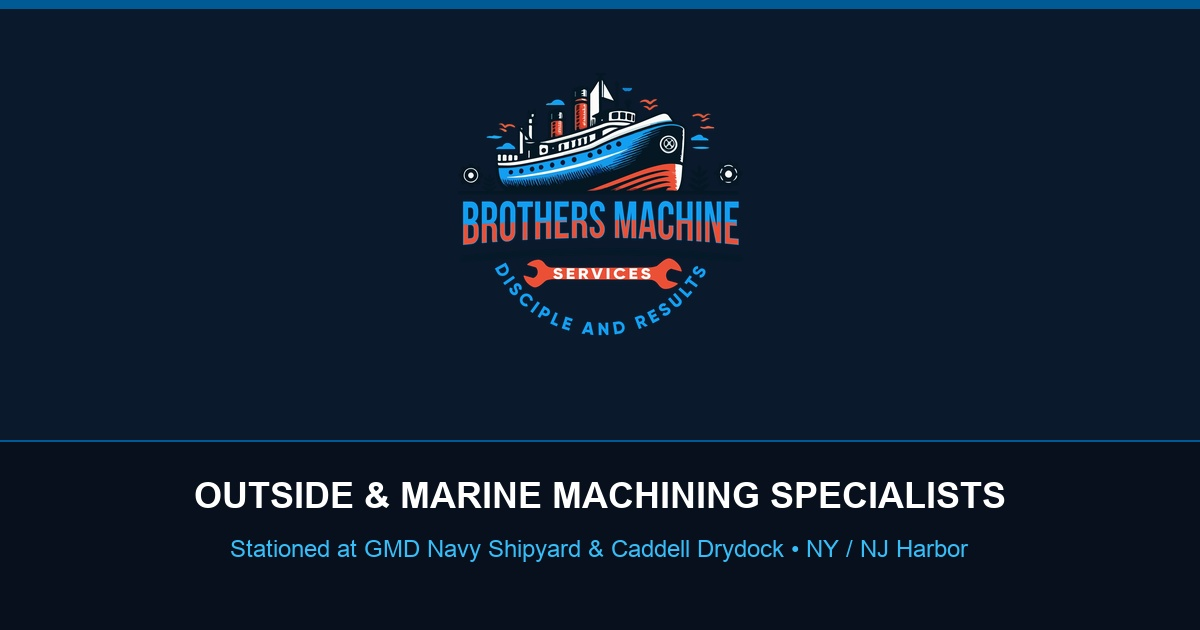
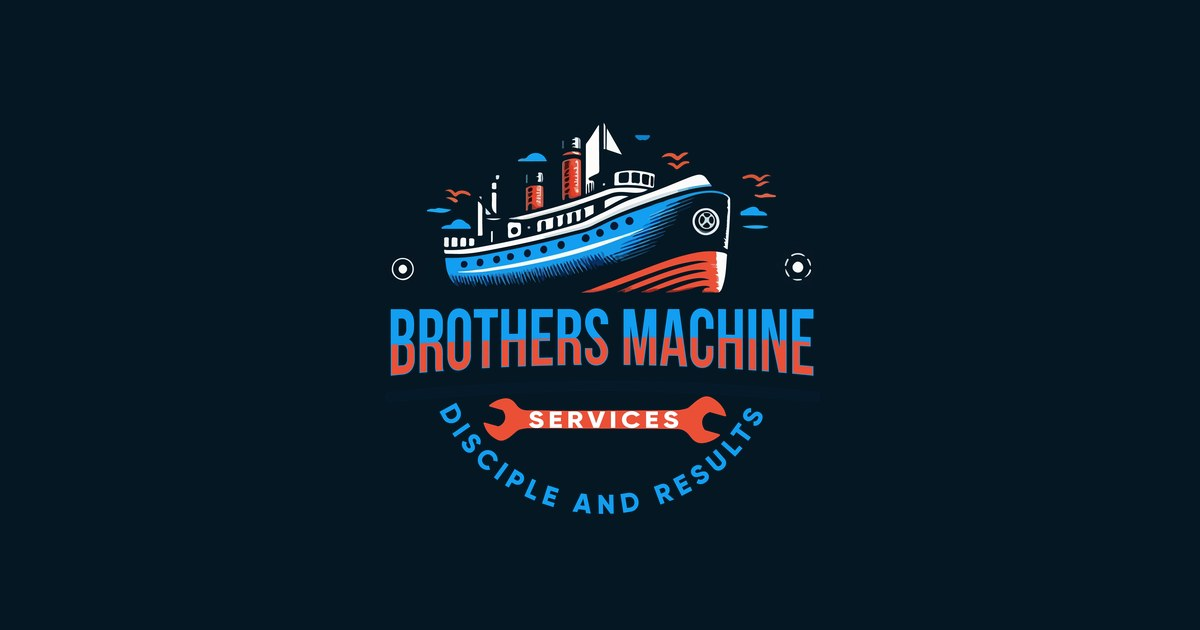
fix(social): optimize OpenGraph preview images for WhatsApp (square 600x600 fallback, jpg format, og:image:type, secure_url)

diff --git a/frontend/dist/index.html b/frontend/dist/index.html
@@ -11,18 +11,36 @@
     <meta name="geo.region" content="US-NY" />
     <meta name="geo.placename" content="New York Harbor" />
 
-    <!-- Open Graph & Social -->
+    <!-- Open Graph & Social (WhatsApp / iMessage / LinkedIn / Facebook) -->
     <meta property="og:type" content="website" />
     <meta property="og:site_name" content="Brothers Machine Services Corp" />
     <meta property="og:title" content="Brothers Machine Services | Outside Marine Machining" />
     <meta property="og:description" content="Precision in-place line boring, flange facing, portable milling, and shaft alignment stationed inside GMD Navy Shipyard & Caddell Drydock." />
+    <meta property="og:url" content="https://brothers-machine-services.pages.dev/" />
     <meta property="og:image" content="https://brothers-machine-services.pages.dev/og-image.jpg" />
+    <meta property="og:image:secure_url" content="https://brothers-machine-services.pages.dev/og-image.jpg" />
+    <meta property="og:image:type" content="image/jpeg" />
     <meta property="og:image:width" content="1200" />
     <meta property="og:image:height" content="630" />
+    <meta property="og:image:alt" content="Brothers Machine Services Logo" />
+
+    <!-- WhatsApp Specific Square Image Fallback -->
+    <meta property="og:image" content="https://brothers-machine-services.pages.dev/og-image-square.jpg" />
+    <meta property="og:image:secure_url" content="https://brothers-machine-services.pages.dev/og-image-square.jpg" />
+    <meta property="og:image:type" content="image/jpeg" />
+    <meta property="og:image:width" content="600" />
+    <meta property="og:image:height" content="600" />
+
+    <!-- Twitter Card -->
     <meta name="twitter:card" content="summary_large_image" />
     <meta name="twitter:title" content="Brothers Machine Services | Outside Marine Machining" />
     <meta name="twitter:description" content="Precision in-place line boring, flange facing, portable milling, and shaft alignment stationed inside GMD Navy Shipyard & Caddell Drydock." />
     <meta name="twitter:image" content="https://brothers-machine-services.pages.dev/og-image.jpg" />
+
+    <!-- Search Engine Schema Microdata for Crawlers without JS -->
+    <meta itemprop="name" content="Brothers Machine Services Corp" />
+    <meta itemprop="description" content="Precision in-place line boring, flange facing, portable milling, and shaft alignment stationed inside GMD Navy Shipyard & Caddell Drydock." />
+    <meta itemprop="image" content="https://brothers-machine-services.pages.dev/og-image-square.jpg" />
 
     <!-- Favicon -->
     <link rel="icon" type="image/x-icon" href="/favicon.ico" />

diff --git a/frontend/index.html b/frontend/index.html
@@ -11,18 +11,36 @@
     <meta name="geo.region" content="US-NY" />
     <meta name="geo.placename" content="New York Harbor" />
 
-    <!-- Open Graph & Social -->
+    <!-- Open Graph & Social (WhatsApp / iMessage / LinkedIn / Facebook) -->
     <meta property="og:type" content="website" />
     <meta property="og:site_name" content="Brothers Machine Services Corp" />
     <meta property="og:title" content="Brothers Machine Services | Outside Marine Machining" />
     <meta property="og:description" content="Precision in-place line boring, flange facing, portable milling, and shaft alignment stationed inside GMD Navy Shipyard & Caddell Drydock." />
+    <meta property="og:url" content="https://brothers-machine-services.pages.dev/" />
     <meta property="og:image" content="https://brothers-machine-services.pages.dev/og-image.jpg" />
+    <meta property="og:image:secure_url" content="https://brothers-machine-services.pages.dev/og-image.jpg" />
+    <meta property="og:image:type" content="image/jpeg" />
     <meta property="og:image:width" content="1200" />
     <meta property="og:image:height" content="630" />
+    <meta property="og:image:alt" content="Brothers Machine Services Logo" />
+
+    <!-- WhatsApp Specific Square Image Fallback -->
+    <meta property="og:image" content="https://brothers-machine-services.pages.dev/og-image-square.jpg" />
+    <meta property="og:image:secure_url" content="https://brothers-machine-services.pages.dev/og-image-square.jpg" />
+    <meta property="og:image:type" content="image/jpeg" />
+    <meta property="og:image:width" content="600" />
+    <meta property="og:image:height" content="600" />
+
+    <!-- Twitter Card -->
     <meta name="twitter:card" content="summary_large_image" />
     <meta name="twitter:title" content="Brothers Machine Services | Outside Marine Machining" />
     <meta name="twitter:description" content="Precision in-place line boring, flange facing, portable milling, and shaft alignment stationed inside GMD Navy Shipyard & Caddell Drydock." />
     <meta name="twitter:image" content="https://brothers-machine-services.pages.dev/og-image.jpg" />
+
+    <!-- Search Engine Schema Microdata for Crawlers without JS -->
+    <meta itemprop="name" content="Brothers Machine Services Corp" />
+    <meta itemprop="description" content="Precision in-place line boring, flange facing, portable milling, and shaft alignment stationed inside GMD Navy Shipyard & Caddell Drydock." />
+    <meta itemprop="image" content="https://brothers-machine-services.pages.dev/og-image-square.jpg" />
 
     <!-- Favicon -->
     <link rel="icon" type="image/x-icon" href="/favicon.ico" />
